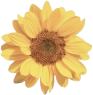
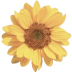
weather api and hook

diff --git a/glow-guard/src/components/Hero.jsx b/glow-guard/src/components/Hero.jsx
@@ -8,12 +8,24 @@ import uv9 from '../assets/uv9.png'
 import uv10 from '../assets/uv10.png'
 
 
-const Hero = ({uvLevel = "high", uvIndex = 7 }) => {
+const Hero = ({uvLevel, uvIndex }) => {
+
     const gradients = {
-        low: "from-[#F7F4EA] to-[#C0B9DD]",
-        moderate: "from-[#FFF4D6] to-[#DED9E2]",
-        high: "from-[#FFE7C2] to-[#80A1D4]",
-        extreme: "from-[#FFDFC8] to-[#75C9C8]"
+            // soft cream → dreamy lavender
+            // calm cloudy/safe UV mood
+            low: "from-[#F7F4EA] to-[#C0B9DD]",
+
+            // warm sunlight → muted lilac
+            // gentle sunny-day atmosphere
+            moderate: "from-[#FFF4D6] to-[#DED9E2]",
+
+            // peach sunlight → cool blue
+            // strong UV / heated afternoon feel
+            high: "from-[#FFE7C2] to-[#80A1D4]",
+
+            // warm coral glow → aqua tension
+            // dangerous UV but still elegant
+            extreme: "from-[#FFDFC8] to-[#75C9C8]"
     };
 
     const images = {
@@ -26,9 +38,31 @@ const Hero = ({uvLevel = "high", uvIndex = 7 }) => {
     const selectedImage = images[uvLevel][Math.floor(Math.random() * images[uvLevel].length)];
 
     return (
-        <div className='flex flex-col'>
-            <div className='relative shrink-0 flex mt-30 '>
-                <div className="absolute left-0 top-6 z-0 w-[100px] h-[200px] bg-lavender rounded-r-full">
+        <div className={`flex flex-col bg-gradient-to-b from-curious-blue/60 to bg-lavender rounded-b-xl`}>
+            <div className='relative shrink-0 flex mt-10 '>
+                <div className="
+                        absolute
+                        left-[-40px]
+                        top-[90px]
+                        z-0
+                        w-[180px]
+                        h-[180px]
+                        bg-[#FFD65A]/40
+                        blur-3xl
+                        rounded-full
+                        ">
+                </div>
+                <div className="
+                        absolute
+                        left-[10px]
+                        top-[135px]
+                        z-0
+                        w-[90px]
+                        h-[90px]
+                        bg-[#FFC83D]/90
+                        blur-xl
+                        rounded-full
+                        ">
                 </div>
                 <img src={selectedImage} className='
                 w-[182px] h-[229px]  
@@ -38,30 +72,32 @@ const Hero = ({uvLevel = "high", uvIndex = 7 }) => {
                 drop-shadow-[0_5px_2px_rgba(0,0,0,0.35)]
                 -translate-x-6' alt="uv illustration" />
 
-                <div className='text-left flex items-center mt-4 mr-2 font-playfair font-medium text-[36px]  text-wisteria'>THE SUN ISN'T YOUR FRIEND RN </div>
+                <div className='text-left flex items-center mt-4 mr-2 font-playfair font-medium text-[32px]  text-floral-white drop-shadow '>IT'S BETTER TO STAY INDOORS </div>
             </div>
 
             
 
-            <div className='ml-13 -mt-16 z-30 relative'>
+            <div className='ml-13 -mt-16 z-30 mb-4 relative'>
 
                 <div className='flex items-end'>
 
                     <span className='
+                        drop-shadow-lg
                         text-[72px]
                         font-playfair
                         font-semibold
-                        text-wisteria
+                        text-floral-white
                         leading-none
                     '>
                         {uvIndex}
                     </span>
 
                     <span className='
+                        drop-shadow-lg
                         font-playfair
                         text-xs
                         uppercase
-                        text-wisteria/80
+                        text-floral-white
                     '>
                         UV INDEX
                     </span>

diff --git a/glow-guard/src/hooks/useWeather.js b/glow-guard/src/hooks/useWeather.js
@@ -1,0 +1,34 @@
+import { useState, useEffect } from 'react';
+import { fetchWeatherData } from '../../backend/weatherApi';
+
+const useWeather = () => {
+    const [weather, setWeather] = useState(null);
+    const [loading, setLoading] = useState(true);
+    const [error, setError] = useState(null);
+
+    useEffect(() => {
+        navigator.geolocation.getCurrentPosition(
+            async (position) => {
+                try{
+                    const { latitude, longitude} = position.coords;
+                    const data = await fetchWeatherData(latitude, longitude);
+                    setWeather(data)
+                }
+                catch(err){
+                    setError('Failed to fetch weather data');
+                }
+                finally{
+                    setLoading(false);
+                }
+            },
+            (err) => {
+                setError('Location access denied');
+                setLoading(false);
+            }
+        )
+    },[]);
+
+    return { weather, loading, error };
+}
+
+export default useWeather;

diff --git a/glow-guard/backend/weatherApi.js b/glow-guard/backend/weatherApi.js
@@ -1,0 +1,28 @@
+export const fetchWeatherData = async (lat, lon) => {
+    try {
+        const [weatherRes, aqiRes] = await Promise.all([
+            fetch(`https://api.open-meteo.com/v1/forecast?latitude=${lat}&longitude=${lon}&current=temperature_2m,relative_humidity_2m,weather_code,apparent_temperature&hourly=uv_index&timezone=auto&forecast_days=1`),
+            fetch(`https://air-quality-api.open-meteo.com/v1/air-quality?latitude=${lat}&longitude=${lon}&current=european_aqi`)
+        ])
+
+        const weatherData = await weatherRes.json()
+        const aqiData = await aqiRes.json()
+
+        const currentHour = new Date().getHours()
+        const uv = weatherData.hourly.uv_index[currentHour]
+        const temp = weatherData.current.temperature_2m
+        const humidity = weatherData.current.relative_humidity_2m
+        const weatherCode = weatherData.current.weather_code
+        const apparentTemp = weatherData.current.apparent_temperature
+        const aqi = aqiData.current.european_aqi
+
+
+        const uvLevel = uv <= 3 ? 'low' : uv <= 5 ? 'moderate' : uv <= 7 ? 'high' : 'extreme'
+
+        return { uv, temp, humidity, weatherCode, aqi, uvLevel, apparentTemp }
+
+    } catch (err) {
+        console.error('Weather fetch error:', err)
+        throw err
+    }
+}

diff --git a/glow-guard/src/components/TipCard.jsx b/glow-guard/src/components/TipCard.jsx
@@ -2,35 +2,32 @@ import React from 'react'
 
 const TipCard = () => {
   return (
-    <div className='mt-[60px]'>
+    <div className='mt-[30px] flex flex-col gap-y-4'>
         <div className='
         bg-lavender/30 
         backdrop-blur-md
         text-frost
-        text-[20px] 
-        w-[345px] h-[75px] 
+        text-[14px] 
+        w-[330px] h-[60px] 
         rounded-lg
-        mx-auto px-[10px] py-[14px]
+        mx-auto px-[10px] py-[12px]
         '>Lorem ipsum dolor sit amet, consectetur adipiscing elit, sed do</div>
         <div className='
         bg-lavender/30 
         backdrop-blur-md
         text-frost
-        text-[20px] 
-        w-[345px] h-[75px] 
+        text-[14px] 
+        w-[330px] h-[60px] 
         rounded-lg
-        mt-[22px] 
-        mx-auto px-[10px] py-[14px]
-        '>Lorem ipsum dolor sit amet, consectetur adipiscing elit, sed do</div>
-        <div className='
+        mx-auto px-[10px] py-[12px]
+        '>Lorem ipsum dolor sit amet, consectetur adipiscing elit, sed do</div><div className='
         bg-lavender/30 
         backdrop-blur-md
         text-frost
-        text-[20px] 
-        w-[345px] h-[75px] 
+        text-[14px] 
+        w-[330px] h-[60px] 
         rounded-lg
-        mt-[22px] 
-        mx-auto px-[10px] py-[14px]
+        mx-auto px-[10px] py-[12px]
         '>Lorem ipsum dolor sit amet, consectetur adipiscing elit, sed do</div>
         
     </div>

diff --git a/glow-guard/src/pages/Home.jsx b/glow-guard/src/pages/Home.jsx
@@ -2,15 +2,25 @@ import React from 'react'
 import Hero from '../components/Hero'
 import TipCard from '../components/TipCard'
 import Chatbot from '../components/Chatbot'
+import useWeather from '../hooks/useWeather'
 
 const Home = () => {
+    const { weather, loading, error } = useWeather();
+
+    if(loading){
+        return <div className="font-raleway text-wisteria text-center mt-40">Loading your glow report...</div>
+    }
+
+    if(error){
+       return <div className="font-raleway text-wisteria text-center mt-40">{error} :(</div> 
+    }
     return (
-    <div>
-        <Hero/>
+    <div className="min-h-screen bg-floral-white">
+        <Hero uvLevel={weather.uvLevel} uvIndex={weather.uv}/>
         <TipCard/>
         <Chatbot/>
     </div>
     )
 }
 
-export default Home
+export default Home;

diff --git a/glow-guard/src/App.jsx b/glow-guard/src/App.jsx
@@ -4,8 +4,10 @@ import Home from './pages/Home';
 
 const App = () => {
   return (
-    <div>
-      <Home/>
+    <div className="min-h-screen bg-floral-white flex justify-center">
+      <div className="w-full max-w-[390px] relative overflow-hidden" >
+        <Home/>
+      </div>
     </div>
   )
 }

diff --git a/glow-guard/src/components/Chatbot.jsx b/glow-guard/src/components/Chatbot.jsx
@@ -3,16 +3,16 @@ import chatboticon from '../assets/chatboticon.png';
 
 const Chatbot = () => {
   return (
-    <div className='relative flex mt-[66px] flex-col items-end mr-18'>
+    <div className='relative flex mt-[50px] flex-col items-end mr-4 mb-10'>
 
 
         <img src={chatboticon} alt="chatbot-icon" 
-        className='relative z-10'/>
+        className='relative z-10 drop-shadow-[0_5px_2px_rgba(0,0,0,0.35)]'/>
         
         <div className='
         absolute
         bottom-2
-        right-18
+        right-14
         bg-lavender/30 
         backdrop-blur-md
         text-frost

diff --git a/glow-guard/vite.config.js b/glow-guard/vite.config.js
@@ -3,6 +3,9 @@ import react from '@vitejs/plugin-react'
 import { VitePWA } from 'vite-plugin-pwa'
 
 export default defineConfig({
+  server: {
+    allowedHosts: ['totally-cards-diff-department.trycloudflare.com']
+  },
   plugins: [
     react(),
     VitePWA({
@@ -25,7 +28,7 @@ export default defineConfig({
             src: '/icon-512.png',
             sizes: '512x512',
             type: 'image/png'
-          }
+          },
         ]
       }
     })